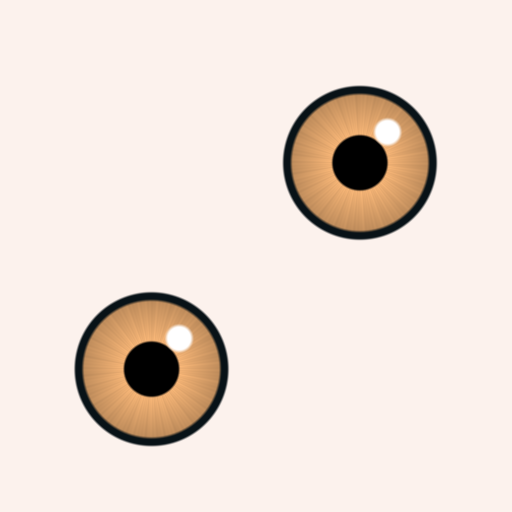
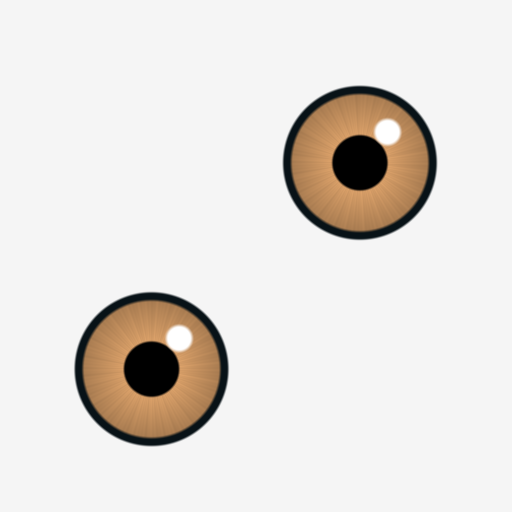
Rounds 30 to 34 of the loop: shorter lower face, clean white of the eye, fuller cheeks (5.5 in 10)

Changed region(s): [[0.1875, 0.5938, 0.4062, 0.8438], [0.5938, 0.1875, 0.8125, 0.4375]]

diff --git a/tools/parle_style.py b/tools/parle_style.py
@@ -39,9 +39,11 @@ NOSE_TIP_REACH_M = 0.016
 # How round an eye opens at least, its height over its width: the series' eyes are 0.6 to 0.7 (read on its portraits); the cast's
 # lids gave 0.42, with the iris filling the opening (round 5).
 # Round 20 (2026-11-16): at 0.58 the upper lid still covered the top third of the iris, a sleepy look, on all four.
-EYE_TALL_LEAST = 0.66
+# Round 29 (5.0): at 0.66 the women and the old man stared (white all about the iris): the series' lid covers 15 to 20 % of it.
+EYE_TALL_LEAST = 0.6
 # How much the eye's own map lights it (emission): the white of the series' eyes is white even in the shade of the brow.
-EYE_GLOW = 0.0
+# Round 30 (2026-11-16): the white of the eye read grey-pink in the orbit's shade; the series' is clean white.
+EYE_GLOW = 0.15
 SKIN_WARM = 0.012
 # The nose's reach about its tip, in metres; below the tip it is shorter (NOSE_BELOW), so the upper lip stays where it was, and up
 # the bridge longer (NOSE_ABOVE). The middle it grows about stands NOSE_BACK behind the tip, a little above it.
@@ -128,10 +130,10 @@ def warmer(rgb, amount):
 # the eyes (`unit`), so one set of numbers serves every person of a kind. SCULPT has them by kind; a share is how much of the way
 # to its form a point goes.
 SCULPT = {
-    "male": {"nose_ball": (0.33, 0.36, 0.31), "nose_share": 0.95, "cheek": 0.52, "cheek_share": 0.45, "shell": 0.28, "chin": 0.5, "lid": 0.1},
-    "male-old": {"nose_ball": (0.44, 0.46, 0.38), "nose_share": 0.95, "cheek": 0.6, "cheek_share": 0.6, "shell": 0.3, "chin": 0.45, "lid": 0.14},
-    "female": {"nose_ball": (0.24, 0.24, 0.21), "nose_share": 0.9, "cheek": 0.5, "cheek_share": 0.45, "shell": 0.22, "chin": 0.36, "lid": 0.03},
-    "female-old": {"nose_ball": (0.28, 0.28, 0.25), "nose_share": 0.9, "cheek": 0.58, "cheek_share": 0.65, "shell": 0.24, "chin": 0.38, "lid": 0.0},
+    "male": {"nose_ball": (0.37, 0.38, 0.3), "nose_share": 0.95, "cheek": 0.55, "cheek_share": 0.55, "shell": 0.28, "chin": 0.5, "lid": 0.1},
+    "male-old": {"nose_ball": (0.44, 0.46, 0.38), "nose_share": 0.95, "cheek": 0.62, "cheek_share": 0.7, "shell": 0.3, "chin": 0.45, "lid": 0.06},
+    "female": {"nose_ball": (0.24, 0.24, 0.21), "nose_share": 0.9, "cheek": 0.54, "cheek_share": 0.6, "shell": 0.22, "chin": 0.36, "lid": -0.06},
+    "female-old": {"nose_ball": (0.28, 0.28, 0.25), "nose_share": 0.9, "cheek": 0.62, "cheek_share": 0.75, "shell": 0.24, "chin": 0.38, "lid": -0.08},
 }
 # Where the forms stand, in distances between the eyes from the middle of the eye globe of that side (cheeks) or from the nose tip
 # (the nose ball behind it, the chin under it): across, back (+y), up.
@@ -158,6 +160,15 @@ LID_REACH = 1.9
 # The ball stands this share of its depth behind the tip, so the tip comes out a little into a round bulb and nothing is pulled in.
 NOSE_BALL_BACK = 0.78
 NOSE_ZONE = 0.55
+# The lower face (round 31, 2026-11-16, 5.0): "a estrutura ainda é a de uma cabeça humana realista … rosto comprido e estreito
+# embaixo"; the series' faces are short under the nose. From the nose tip down to the chin (LOWER_CHIN distances between the eyes
+# under the tip) the face is this share as tall; the neck takes the move back over LOWER_NECK, and the whole width of the jaw
+# (LOWER_WIDE either side) goes with it.
+LOWER_FACE = {"male": 0.86, "male-old": 0.9, "female": 0.88, "female-old": 0.9}
+LOWER_CHIN = -1.3
+LOWER_NECK = 0.8
+LOWER_BACK = 1.3
+LOWER_WIDE = 1.8
 # Simple volumes (round 27, 2026-11-16, 4.1: "pele cerosa e realista", the folds of the neck and the chin, the lips of a real mouth,
 # "volumes mais simples e redondos"). The face and the neck are smoothed where a real face keeps its small forms: about a middle
 # behind and under the nose (in distances between the eyes), whole within SIMPLE_IN and none past SIMPLE_OUT; the rims of the eyes
@@ -221,6 +232,29 @@ def smoothed(points, edges, weight, rounds=None):
             np.add.at(total, edges[:, 1], points[edges[:, 0]])
             points = points + step * weight * (total / count - points)
     return points
+
+
+def lower_face_field(tip, eyes, kind):
+    """`field(points)`: the face under the nose made shorter by its kind's LOWER_FACE (the chin comes up, the mouth part of the
+    way), the neck under the chin following it back to where it was. For the skin and the teeth and tongue alike."""
+    centres = [np.asarray(centre, float) for centre, _ in eyes]
+    unit = float(np.linalg.norm(centres[0] - centres[1]))
+    tip = np.asarray(tip, float)
+    chin = tip[2] + LOWER_CHIN * unit
+    lift = (1 - LOWER_FACE[kind]) * (tip[2] - chin)
+
+    def field(points):
+        points = np.asarray(points, float).copy()
+        z = points[:, 2]
+        share = np.where(z > chin, (tip[2] - z) / (tip[2] - chin), 1.0 - (chin - z) / (LOWER_NECK * unit))
+        share = np.clip(share, 0, 1) * (z < tip[2])
+        share *= smooth((LOWER_WIDE - np.abs(points[:, 0] - tip[0]) / unit) / 0.5)
+        # The front of the face and the throat only (round 32: moved all round, the back of the neck came out through the collar).
+        share *= smooth((tip[1] + LOWER_BACK * unit - points[:, 1]) / (0.5 * unit))
+        points[:, 2] += lift * share
+        return points
+
+    return field
 
 
 def sculpt_field(tip, eyes, kind):

diff --git a/tools/eye_texture.py b/tools/eye_texture.py
@@ -27,6 +27,7 @@ CENTRES = ((0.703, 0.273), (0.296, 0.676))
 # most of the eye.
 # Round 23 (4.5): at 0.155 the iris filled the eye and no white showed: between the two.
 # Round 25: with the lid lifted, an iris filling more of the width (about 55 to 60 % of it in the series).
+# Round 31: the iris still "pequena, com branco dos dois lados" on all four.
 IRIS_RADIUS = 0.15
 # The cast has no eye bones and the globe rests looking slightly up: without this the pupil touches the upper lid.
 # Measured on a woman of the cast (2026-11-12), the lids opened from 5 to 8 degrees above the middle of the iris to 21 to 27 below
@@ -59,7 +60,8 @@ LIMBUS_SHARE = 0.90
 # The series the owner chose on 2026-11-15 has lighter, clearer brown irises: a judge by sight against it asked for them a quarter
 # lighter (round 8 of the loop), so each colour is IRIS_LIGHTER times the one chosen above.
 # Round 27: the dark brown iris read almost black; the series' are a mid brown.
-IRIS_LIGHTER = 1.3
+# Round 33: at 1.6 the brown washed into the white, an iris "sumida".
+IRIS_LIGHTER = 1.15
 IRISES = {name: tuple(min(1.0, value * IRIS_LIGHTER) for value in colour) for name, colour in {
     "castanho-escuro": (0.16, 0.2, 0.316),
     "castanho": (0.202, 0.251, 0.393),
@@ -67,7 +69,8 @@ IRISES = {name: tuple(min(1.0, value * IRIS_LIGHTER) for value in colour) for na
 }.items()}
 LIMBUS = np.array((0.09, 0.07, 0.03))
 PUPIL = np.array((0.0, 0.0, 0.0))
-SCLERA = np.array((0.93, 0.95, 0.99))
+# Written by cv2 (blue first): the old bluish white came out pink on the eye (round 33: "branco rosado"). A neutral white.
+SCLERA = np.array((0.96, 0.96, 0.96))
 # One small clean catchlight up and to one side of the pupil, as every eye of the series the owner chose has (round 20 of the loop,
 # 2026-11-16): a disc in iris radii, at (across, down) from the iris's middle. The iris drawn flat, with almost none of its fibres.
 CATCHLIGHT = (0.36, -0.4)

diff --git a/tests/test_parle_style.py b/tests/test_parle_style.py
@@ -53,4 +53,10 @@ lips = tip + np.array([0.0, 0.006, -0.04])
 neck = tip + np.array([0.0, 0.06, -0.12])
 weight = parle_style.simple_weight(np.array([rim, lips, neck]), tip, eyes)
 assert weight[0] < 0.01 and weight[1] < 0.01 and weight[2] > 0.9, f"the smoothing takes the eye or the lips, or leaves the neck: {weight}"
+# The lower face shorter (round 31): the chin comes up most, the mouth part of the way, and nothing above the nose tip nor far down
+# the neck moves.
+short = parle_style.lower_face_field(tip, eyes, "male")
+probe = np.array([[0.0, -0.09, tip[2] - 0.083], [0.0, -0.09, tip[2] - 0.04], [0.0, -0.1, tip[2] + 0.01], [0.0, -0.05, 1.4]])
+up = (short(probe) - probe)[:, 2]
+assert up[0] > up[1] > 0.002 and abs(up[2]) < 1e-9 and abs(up[3]) < 1e-9, f"the lower face is not shortened as it should be: {up}"
 print("ok")

diff --git a/tools/parle_polish.py b/tools/parle_polish.py
@@ -1691,6 +1691,10 @@ def natural_body(meshes, rig, height, sex, kit):
         weight[np.unique(edges[sides < 2])] = 0.0
         move = parle_style.smoothed(rest, edges, weight) - rest
         warp(body, lambda points: points + move, kept=lambda name: True)
+        # The lower face shorter (`parle_style.lower_face_field`), the teeth and the tongue with it.
+        short = parle_style.lower_face_field(tip, balls, kind)
+        for obj in [body, *(item for item in meshes if item.type == "MESH" and ("teeth" in item.name or "tongue" in item.name))]:
+            warp(obj, short)
         print("CABEÇA em volumes simples: o ponto que mais andou,", round(float(np.linalg.norm(move, axis=1).max()) * 1000, 1), "mm")
     lined = lining_behind_skin(meshes)
     if lined:
